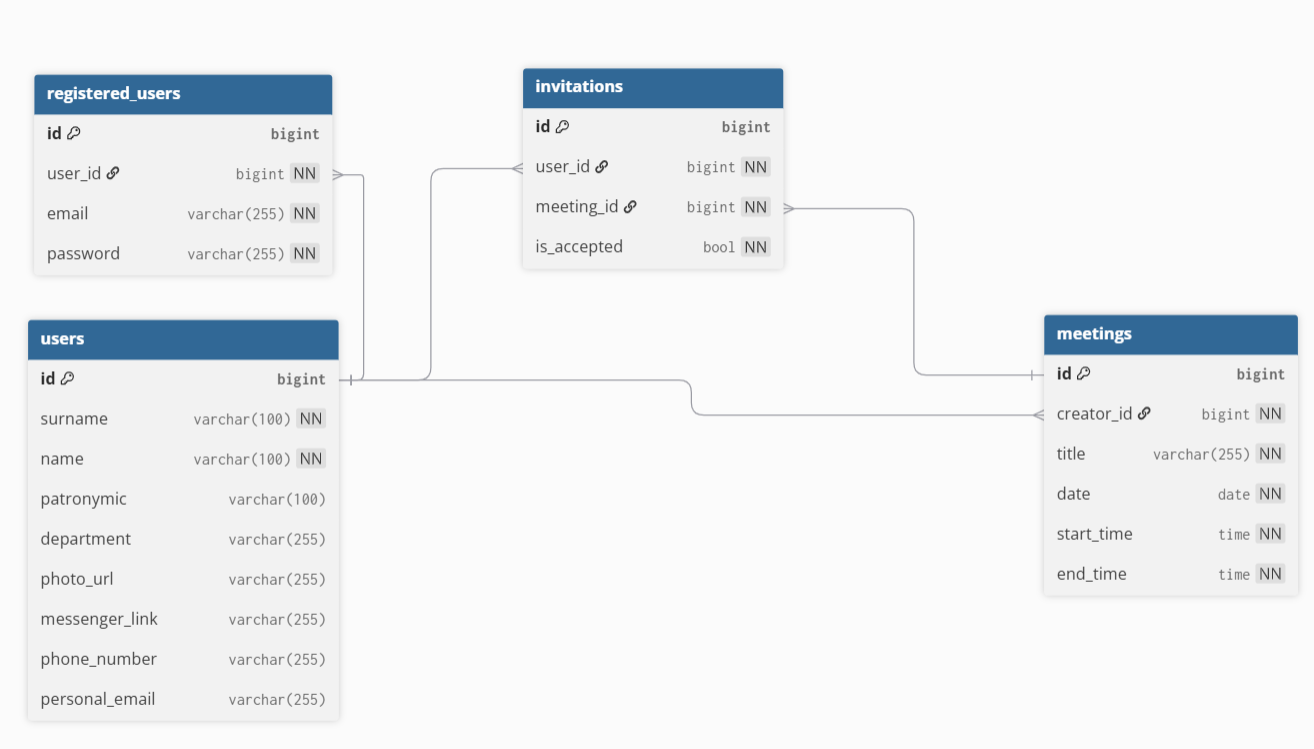
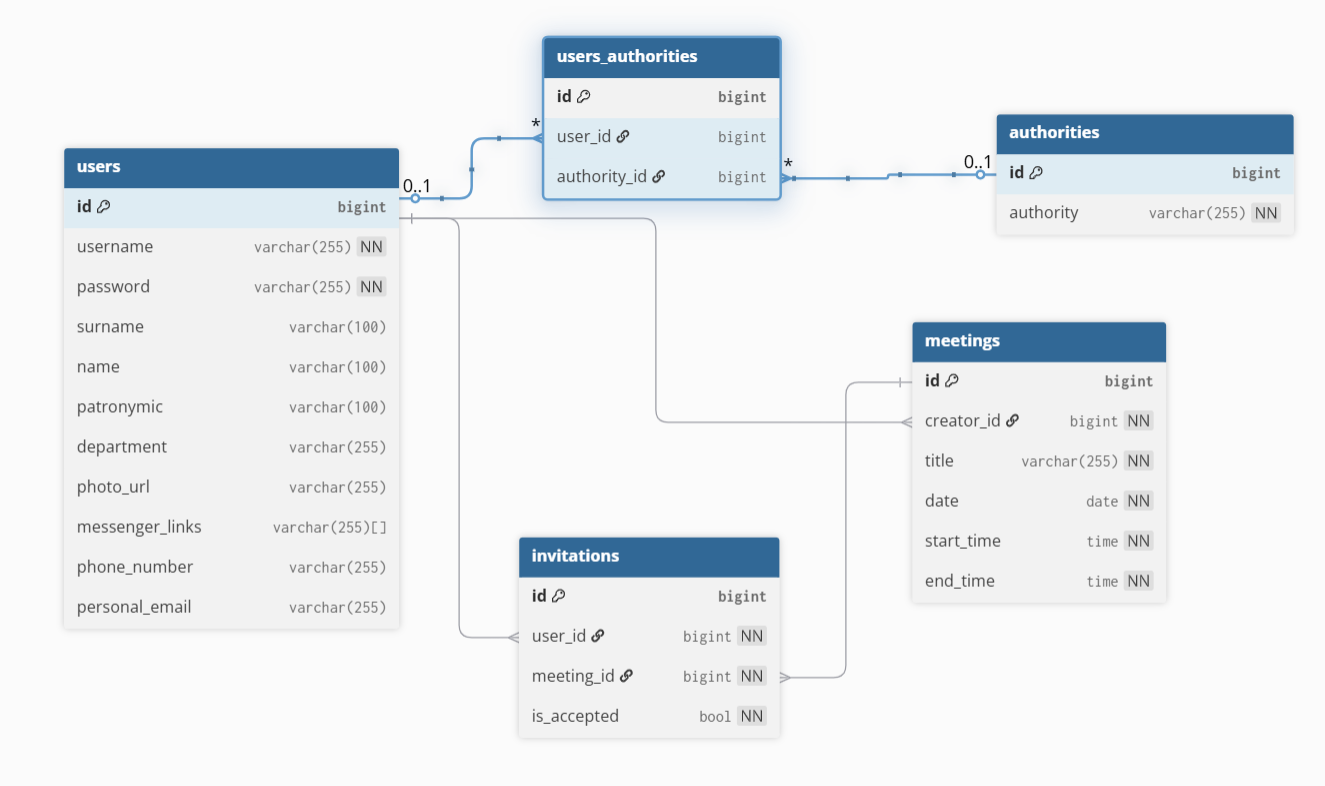
изменил схему бд для реализации аутентификации (новая схема приложена в docs); реализовал регистрацию и аутентификацию пользователя через Spring Security

diff --git a/src/main/java/ru/sicampus/bootcamp2026/service/impl/UserServiceImpl.java b/src/main/java/ru/sicampus/bootcamp2026/service/impl/UserServiceImpl.java
@@ -2,14 +2,18 @@ package ru.sicampus.bootcamp2026.service.impl;
 
 
 import lombok.RequiredArgsConstructor;
+import org.springframework.security.crypto.password.PasswordEncoder;
 import org.springframework.stereotype.Service;
+import ru.sicampus.bootcamp2026.dto.UserRegisterDTO;
 import ru.sicampus.bootcamp2026.dto.UserDTO;
 import ru.sicampus.bootcamp2026.entity.Invitation;
 import ru.sicampus.bootcamp2026.entity.Meeting;
 import ru.sicampus.bootcamp2026.entity.User;
-import ru.sicampus.bootcamp2026.exception.InvitationNotFoundException;
+import ru.sicampus.bootcamp2026.exception.AuthorityNotFoundException;
 import ru.sicampus.bootcamp2026.exception.MeetingNotFoundException;
+import ru.sicampus.bootcamp2026.exception.UserAlreadyExistsException;
 import ru.sicampus.bootcamp2026.exception.UserNotFoundException;
+import ru.sicampus.bootcamp2026.repository.AuthorityRepository;
 import ru.sicampus.bootcamp2026.repository.InvitationRepository;
 import ru.sicampus.bootcamp2026.repository.MeetingRepository;
 import ru.sicampus.bootcamp2026.repository.UserRepository;
@@ -17,8 +21,8 @@ import ru.sicampus.bootcamp2026.service.UserService;
 import ru.sicampus.bootcamp2026.util.UserMapper;
 
 import java.util.ArrayList;
-import java.util.EmptyStackException;
 import java.util.List;
+import java.util.Set;
 import java.util.stream.Collectors;
 
 @Service
@@ -27,7 +31,8 @@ public class UserServiceImpl implements UserService {
 
     private final UserRepository userRepository;
     private final MeetingRepository meetingRepository;
-    private final InvitationRepository invitationRepository;
+    private final AuthorityRepository authorityRepository;
+    private final PasswordEncoder passwordEncoder;
 
     @Override
     public List<UserDTO> getAllUsers() {
@@ -39,6 +44,13 @@ public class UserServiceImpl implements UserService {
     @Override
     public UserDTO getUserById(Long id) {
         return userRepository.findById(id)
+                .map(UserMapper::convertToDto)
+                .orElseThrow(() -> new UserNotFoundException("User not found"));
+    }
+
+    @Override
+    public UserDTO getUserByUsername(String username) {
+        return userRepository.findByUsername(username)
                 .map(UserMapper::convertToDto)
                 .orElseThrow(() -> new UserNotFoundException("User not found"));
     }
@@ -72,37 +84,20 @@ public class UserServiceImpl implements UserService {
     }
 
     @Override
-    public UserDTO createUser(UserDTO dto) {
+    public UserDTO createUser(UserRegisterDTO dto) {
         User user = new User();
-        user.setSurname(dto.getSurname());
-        user.setName(dto.getName());
-        user.setPatronymic(dto.getPatronymic());
-        user.setDepartmentName(dto.getDepartmentName());
-        user.setPhotoUrl(dto.getPhotoUrl());
-        user.setMessengerLink(dto.getMessengerLink());
-        user.setPhoneNumber(dto.getPhoneNumber());
-        user.setPersonalEmail(dto.getPersonalEmail());
 
-        user.setInvites(new ArrayList<>());
-
-        User savedUser = userRepository.save(user);
-
-        List<Invitation> invitations = new ArrayList<>();
-        List<Long> invitedMeetingIds = dto.getInvitedMeetingIds();
-        if (!(invitedMeetingIds == null)) {
-            invitedMeetingIds.forEach(id -> {
-                Meeting meeting = meetingRepository.findById(id).orElseThrow(() -> new MeetingNotFoundException("Meeting not found"));
-                Invitation newInvitation = new Invitation();
-                newInvitation.setInvitedUser(savedUser);
-                newInvitation.setMeeting(meeting);
-                newInvitation.setAccepted(false);
-                invitations.add(newInvitation);
-            });
+        if (userRepository.findByUsername(dto.getUsername()).isPresent()) {
+            throw new UserAlreadyExistsException("User with username " + dto.getUsername() + " already exists");
         }
 
-        savedUser.getInvites().addAll(invitations);
+        user.setUsername(dto.getUsername());
+        user.setPassword(passwordEncoder.encode(dto.getPassword()));
+        user.setInvites(new ArrayList<>());
+        user.setAuthorities(Set.of(authorityRepository.findByAuthority("ROLE_USER")
+                .orElseThrow(() -> new AuthorityNotFoundException("Authority not found"))));
 
-        return UserMapper.convertToDto(userRepository.save(savedUser));
+        return UserMapper.convertToDto(userRepository.save(user));
     }
 
     @Override

diff --git a/src/main/java/ru/sicampus/bootcamp2026/config/WebSecurityConfig.java b/src/main/java/ru/sicampus/bootcamp2026/config/WebSecurityConfig.java
@@ -1,0 +1,45 @@
+package ru.sicampus.bootcamp2026.config;
+
+import org.springframework.context.annotation.Bean;
+import org.springframework.context.annotation.Configuration;
+import org.springframework.security.authentication.AuthenticationManager;
+import org.springframework.security.config.annotation.authentication.configuration.AuthenticationConfiguration;
+import org.springframework.security.config.annotation.web.builders.HttpSecurity;
+import org.springframework.security.config.annotation.web.configuration.EnableWebSecurity;
+import org.springframework.security.config.annotation.web.configurers.AbstractHttpConfigurer;
+import org.springframework.security.config.annotation.web.configurers.HeadersConfigurer;
+import org.springframework.security.crypto.bcrypt.BCryptPasswordEncoder;
+import org.springframework.security.crypto.password.PasswordEncoder;
+import org.springframework.security.web.SecurityFilterChain;
+
+@Configuration
+@EnableWebSecurity
+public class WebSecurityConfig {
+
+    @Bean
+    public PasswordEncoder passwordEncoder() {
+        return new BCryptPasswordEncoder();
+    }
+
+    @Bean
+    public AuthenticationManager authenticationManager(AuthenticationConfiguration authenticationConfiguration) throws Exception {
+        return authenticationConfiguration.getAuthenticationManager();
+    }
+
+    @Bean
+    public SecurityFilterChain securityFilterChain(HttpSecurity httpSecurity) throws Exception {
+        httpSecurity
+                .csrf(AbstractHttpConfigurer::disable)
+                .authorizeHttpRequests(auth -> auth
+                        .requestMatchers("/h2-console/**").permitAll()
+                        .requestMatchers("/api/users/register").permitAll()
+                        .requestMatchers("/api/users/username={username}").permitAll()
+                        .requestMatchers("/api/**").hasAnyAuthority("ROLE_USER")
+                        .anyRequest().authenticated()
+                )
+                .httpBasic(httpBase -> {
+                })
+                .headers(headers -> headers.frameOptions(HeadersConfigurer.FrameOptionsConfig::disable));
+        return httpSecurity.build();
+    }
+}

diff --git a/src/main/java/ru/sicampus/bootcamp2026/controller/UserController.java b/src/main/java/ru/sicampus/bootcamp2026/controller/UserController.java
@@ -3,9 +3,12 @@ package ru.sicampus.bootcamp2026.controller;
 import lombok.RequiredArgsConstructor;
 import org.springframework.http.HttpStatus;
 import org.springframework.http.ResponseEntity;
+import org.springframework.security.core.Authentication;
 import org.springframework.web.bind.annotation.*;
+import ru.sicampus.bootcamp2026.dto.UserRegisterDTO;
 import ru.sicampus.bootcamp2026.dto.UserDTO;
 import ru.sicampus.bootcamp2026.service.UserService;
+import ru.sicampus.bootcamp2026.util.UserMapper;
 
 import java.util.List;
 
@@ -15,6 +18,11 @@ import java.util.List;
 public class UserController {
     private final UserService userService;
 
+    @GetMapping("/login")
+    public ResponseEntity<UserDTO> login(Authentication authentication) {
+        return ResponseEntity.ok(userService.getUserByUsername(authentication.getName()));
+    }
+
     @GetMapping
     public ResponseEntity<List<UserDTO>> getAllUsers() {
         return ResponseEntity.ok(userService.getAllUsers());
@@ -23,6 +31,12 @@ public class UserController {
     @GetMapping("/{id}")
     public ResponseEntity<UserDTO> getUserById(@PathVariable Long id) {
         return ResponseEntity.ok(userService.getUserById(id));
+    }
+
+    @GetMapping("/username={username}")
+    public ResponseEntity<String> getByUsername(@PathVariable String username) {
+        UserDTO userDTO = userService.getUserByUsername(username);
+        return ResponseEntity.ok("User with username " + username + " is registered");
     }
 
     @GetMapping("/surname={surname}")
@@ -45,8 +59,8 @@ public class UserController {
         return ResponseEntity.ok(userService.getAllUsersByDepartmentName(departmentName));
     }
 
-    @PostMapping
-    public ResponseEntity<UserDTO> createUser(@RequestBody UserDTO dto) {
+    @PostMapping("/register")
+    public ResponseEntity<UserDTO> createUser(@RequestBody UserRegisterDTO dto) {
         return ResponseEntity.status(HttpStatus.CREATED).body(userService.createUser(dto));
     }
 

diff --git a/src/main/java/ru/sicampus/bootcamp2026/exception/handler/GlobalExceptionHandler.java b/src/main/java/ru/sicampus/bootcamp2026/exception/handler/GlobalExceptionHandler.java
@@ -4,15 +4,18 @@ import org.springframework.http.HttpStatus;
 import org.springframework.http.ResponseEntity;
 import org.springframework.web.bind.annotation.ControllerAdvice;
 import org.springframework.web.bind.annotation.ExceptionHandler;
-import ru.sicampus.bootcamp2026.exception.InvitationNotFoundException;
-import ru.sicampus.bootcamp2026.exception.MeetingNotFoundException;
-import ru.sicampus.bootcamp2026.exception.UserNotFoundException;
+import ru.sicampus.bootcamp2026.exception.*;
 
 @ControllerAdvice
 public class GlobalExceptionHandler {
     @ExceptionHandler(UserNotFoundException.class)
     public ResponseEntity<String> userNotFoundExceptionHandler(UserNotFoundException e) {
         return new ResponseEntity<String>(e.getMessage(), HttpStatus.NOT_FOUND);
+    }
+
+    @ExceptionHandler(UserAlreadyExistsException.class)
+    public ResponseEntity<String> userAlreadyExistsExceptionHandler(UserAlreadyExistsException e) {
+        return ResponseEntity.status(HttpStatus.CONFLICT).body(e.getMessage());
     }
 
     @ExceptionHandler(MeetingNotFoundException.class)
@@ -23,5 +26,10 @@ public class GlobalExceptionHandler {
     @ExceptionHandler(InvitationNotFoundException.class)
     public ResponseEntity<String> invitationNotFoundExceptionHandler(InvitationNotFoundException e) {
         return new ResponseEntity<String>(e.getMessage(), HttpStatus.NOT_FOUND);
+    }
+
+    @ExceptionHandler(AuthorityNotFoundException.class)
+    public ResponseEntity<String> authorityNotFoundExceptionHandler(AuthorityNotFoundException e) {
+        return ResponseEntity.status(HttpStatus.NOT_FOUND).body(e.getMessage());
     }
 }

diff --git a/src/main/java/ru/sicampus/bootcamp2026/entity/User.java b/src/main/java/ru/sicampus/bootcamp2026/entity/User.java
@@ -2,21 +2,30 @@ package ru.sicampus.bootcamp2026.entity;
 
 import jakarta.persistence.*;
 import lombok.Data;
+import org.springframework.security.core.userdetails.UserDetails;
+import org.springframework.security.core.userdetails.UserDetailsService;
 
 import java.util.List;
+import java.util.Set;
 
 @Data
 @Entity
 @Table(name = "users")
-public class User {
+public class User implements UserDetails {
     @Id
     @GeneratedValue(strategy = GenerationType.IDENTITY)
     private long id;
 
-    @Column(name = "surname", nullable = false)
+    @Column(name = "username", nullable = false, unique = true)
+    private String username;
+
+    @Column(name = "password", nullable = false)
+    private String password;
+
+    @Column(name = "surname")
     private String surname;
 
-    @Column(name = "name", nullable = false)
+    @Column(name = "name")
     private String name;
 
     @Column(name = "patronymic")
@@ -37,12 +46,12 @@ public class User {
     @Column(name = "personal_email", unique = true)
     private String personalEmail;
 
-    @OneToOne(mappedBy = "user", cascade = CascadeType.ALL)
-    private RegisteredUser registrationData;
-
     @OneToMany(mappedBy = "creator", cascade = CascadeType.ALL, orphanRemoval = true)
     private List<Meeting> createdMeetings;
 
     @OneToMany(mappedBy = "invitedUser", cascade = CascadeType.ALL, orphanRemoval = true)
     private List<Invitation> invites;
+
+    @ManyToMany(fetch = FetchType.EAGER)
+    private Set<Authority> authorities;
 }

diff --git a/src/main/java/ru/sicampus/bootcamp2026/service/impl/UserDetailsServiceImpl.java b/src/main/java/ru/sicampus/bootcamp2026/service/impl/UserDetailsServiceImpl.java
@@ -1,0 +1,21 @@
+package ru.sicampus.bootcamp2026.service.impl;
+
+import lombok.RequiredArgsConstructor;
+import org.springframework.security.core.userdetails.UserDetails;
+import org.springframework.security.core.userdetails.UserDetailsService;
+import org.springframework.security.core.userdetails.UsernameNotFoundException;
+import org.springframework.stereotype.Service;
+import ru.sicampus.bootcamp2026.exception.UserNotFoundException;
+import ru.sicampus.bootcamp2026.repository.UserRepository;
+
+@Service
+@RequiredArgsConstructor
+public class UserDetailsServiceImpl implements UserDetailsService {
+
+    private final UserRepository userRepository;
+
+    @Override
+    public UserDetails loadUserByUsername(String username) throws UsernameNotFoundException {
+        return userRepository.findByUsername(username).orElseThrow(() -> new UserNotFoundException("User not found"));
+    }
+}

diff --git a/src/main/java/ru/sicampus/bootcamp2026/service/UserService.java b/src/main/java/ru/sicampus/bootcamp2026/service/UserService.java
@@ -1,5 +1,6 @@
 package ru.sicampus.bootcamp2026.service;
 
+import ru.sicampus.bootcamp2026.dto.UserRegisterDTO;
 import ru.sicampus.bootcamp2026.dto.UserDTO;
 
 import java.util.List;
@@ -9,6 +10,8 @@ public interface UserService {
 
     UserDTO getUserById(Long id);
 
+    UserDTO getUserByUsername(String username);
+
     List<UserDTO> getAllUsersBySurname(String surname);
 
     List<UserDTO> getAllUsersByName(String name);
@@ -17,7 +20,7 @@ public interface UserService {
 
     List<UserDTO> getAllUsersByDepartmentName(String departmentName);
 
-    UserDTO createUser(UserDTO dto);
+    UserDTO createUser(UserRegisterDTO dto);
 
     UserDTO updateUser(Long id, UserDTO dto);
 

diff --git a/src/main/java/ru/sicampus/bootcamp2026/entity/Authority.java b/src/main/java/ru/sicampus/bootcamp2026/entity/Authority.java
@@ -1,0 +1,17 @@
+package ru.sicampus.bootcamp2026.entity;
+
+import jakarta.persistence.*;
+import lombok.Data;
+import org.springframework.security.core.GrantedAuthority;
+
+@Data
+@Entity
+@Table(name = "authorities")
+public class Authority implements GrantedAuthority {
+    @Id
+    @GeneratedValue(strategy = GenerationType.IDENTITY)
+    private long id;
+
+    @Column(name = "authority", nullable = false, unique = true)
+    private String authority;
+}

diff --git a/src/main/java/ru/sicampus/bootcamp2026/repository/AuthorityRepository.java b/src/main/java/ru/sicampus/bootcamp2026/repository/AuthorityRepository.java
@@ -1,0 +1,10 @@
+package ru.sicampus.bootcamp2026.repository;
+
+import org.springframework.data.jpa.repository.JpaRepository;
+import ru.sicampus.bootcamp2026.entity.Authority;
+
+import java.util.Optional;
+
+public interface AuthorityRepository extends JpaRepository<Authority, Long> {
+    Optional<Authority> findByAuthority(String authority);
+}

diff --git a/src/main/java/ru/sicampus/bootcamp2026/repository/UserRepository.java b/src/main/java/ru/sicampus/bootcamp2026/repository/UserRepository.java
@@ -7,6 +7,7 @@ import java.util.List;
 import java.util.Optional;
 
 public interface UserRepository extends JpaRepository<User, Long> {
+    Optional<User> findByUsername(String username);
     List<User> findAllBySurname(String surname);
     List<User> findAllByName(String name);
     List<User> findAllByPatronymic(String patronymic);

diff --git a/src/main/java/ru/sicampus/bootcamp2026/util/UserMapper.java b/src/main/java/ru/sicampus/bootcamp2026/util/UserMapper.java
@@ -13,6 +13,7 @@ import java.util.List;
 public class UserMapper {
     public UserDTO convertToDto(User user) {
         UserDTO userDTO = new UserDTO();
+        userDTO.setUsername(user.getUsername());
         userDTO.setId(user.getId());
         userDTO.setSurname(user.getSurname());
         userDTO.setName(user.getName());

diff --git a/src/main/java/ru/sicampus/bootcamp2026/exception/AuthorityNotFoundException.java b/src/main/java/ru/sicampus/bootcamp2026/exception/AuthorityNotFoundException.java
@@ -1,0 +1,7 @@
+package ru.sicampus.bootcamp2026.exception;
+
+public class AuthorityNotFoundException extends RuntimeException {
+    public AuthorityNotFoundException(String message) {
+        super(message);
+    }
+}
